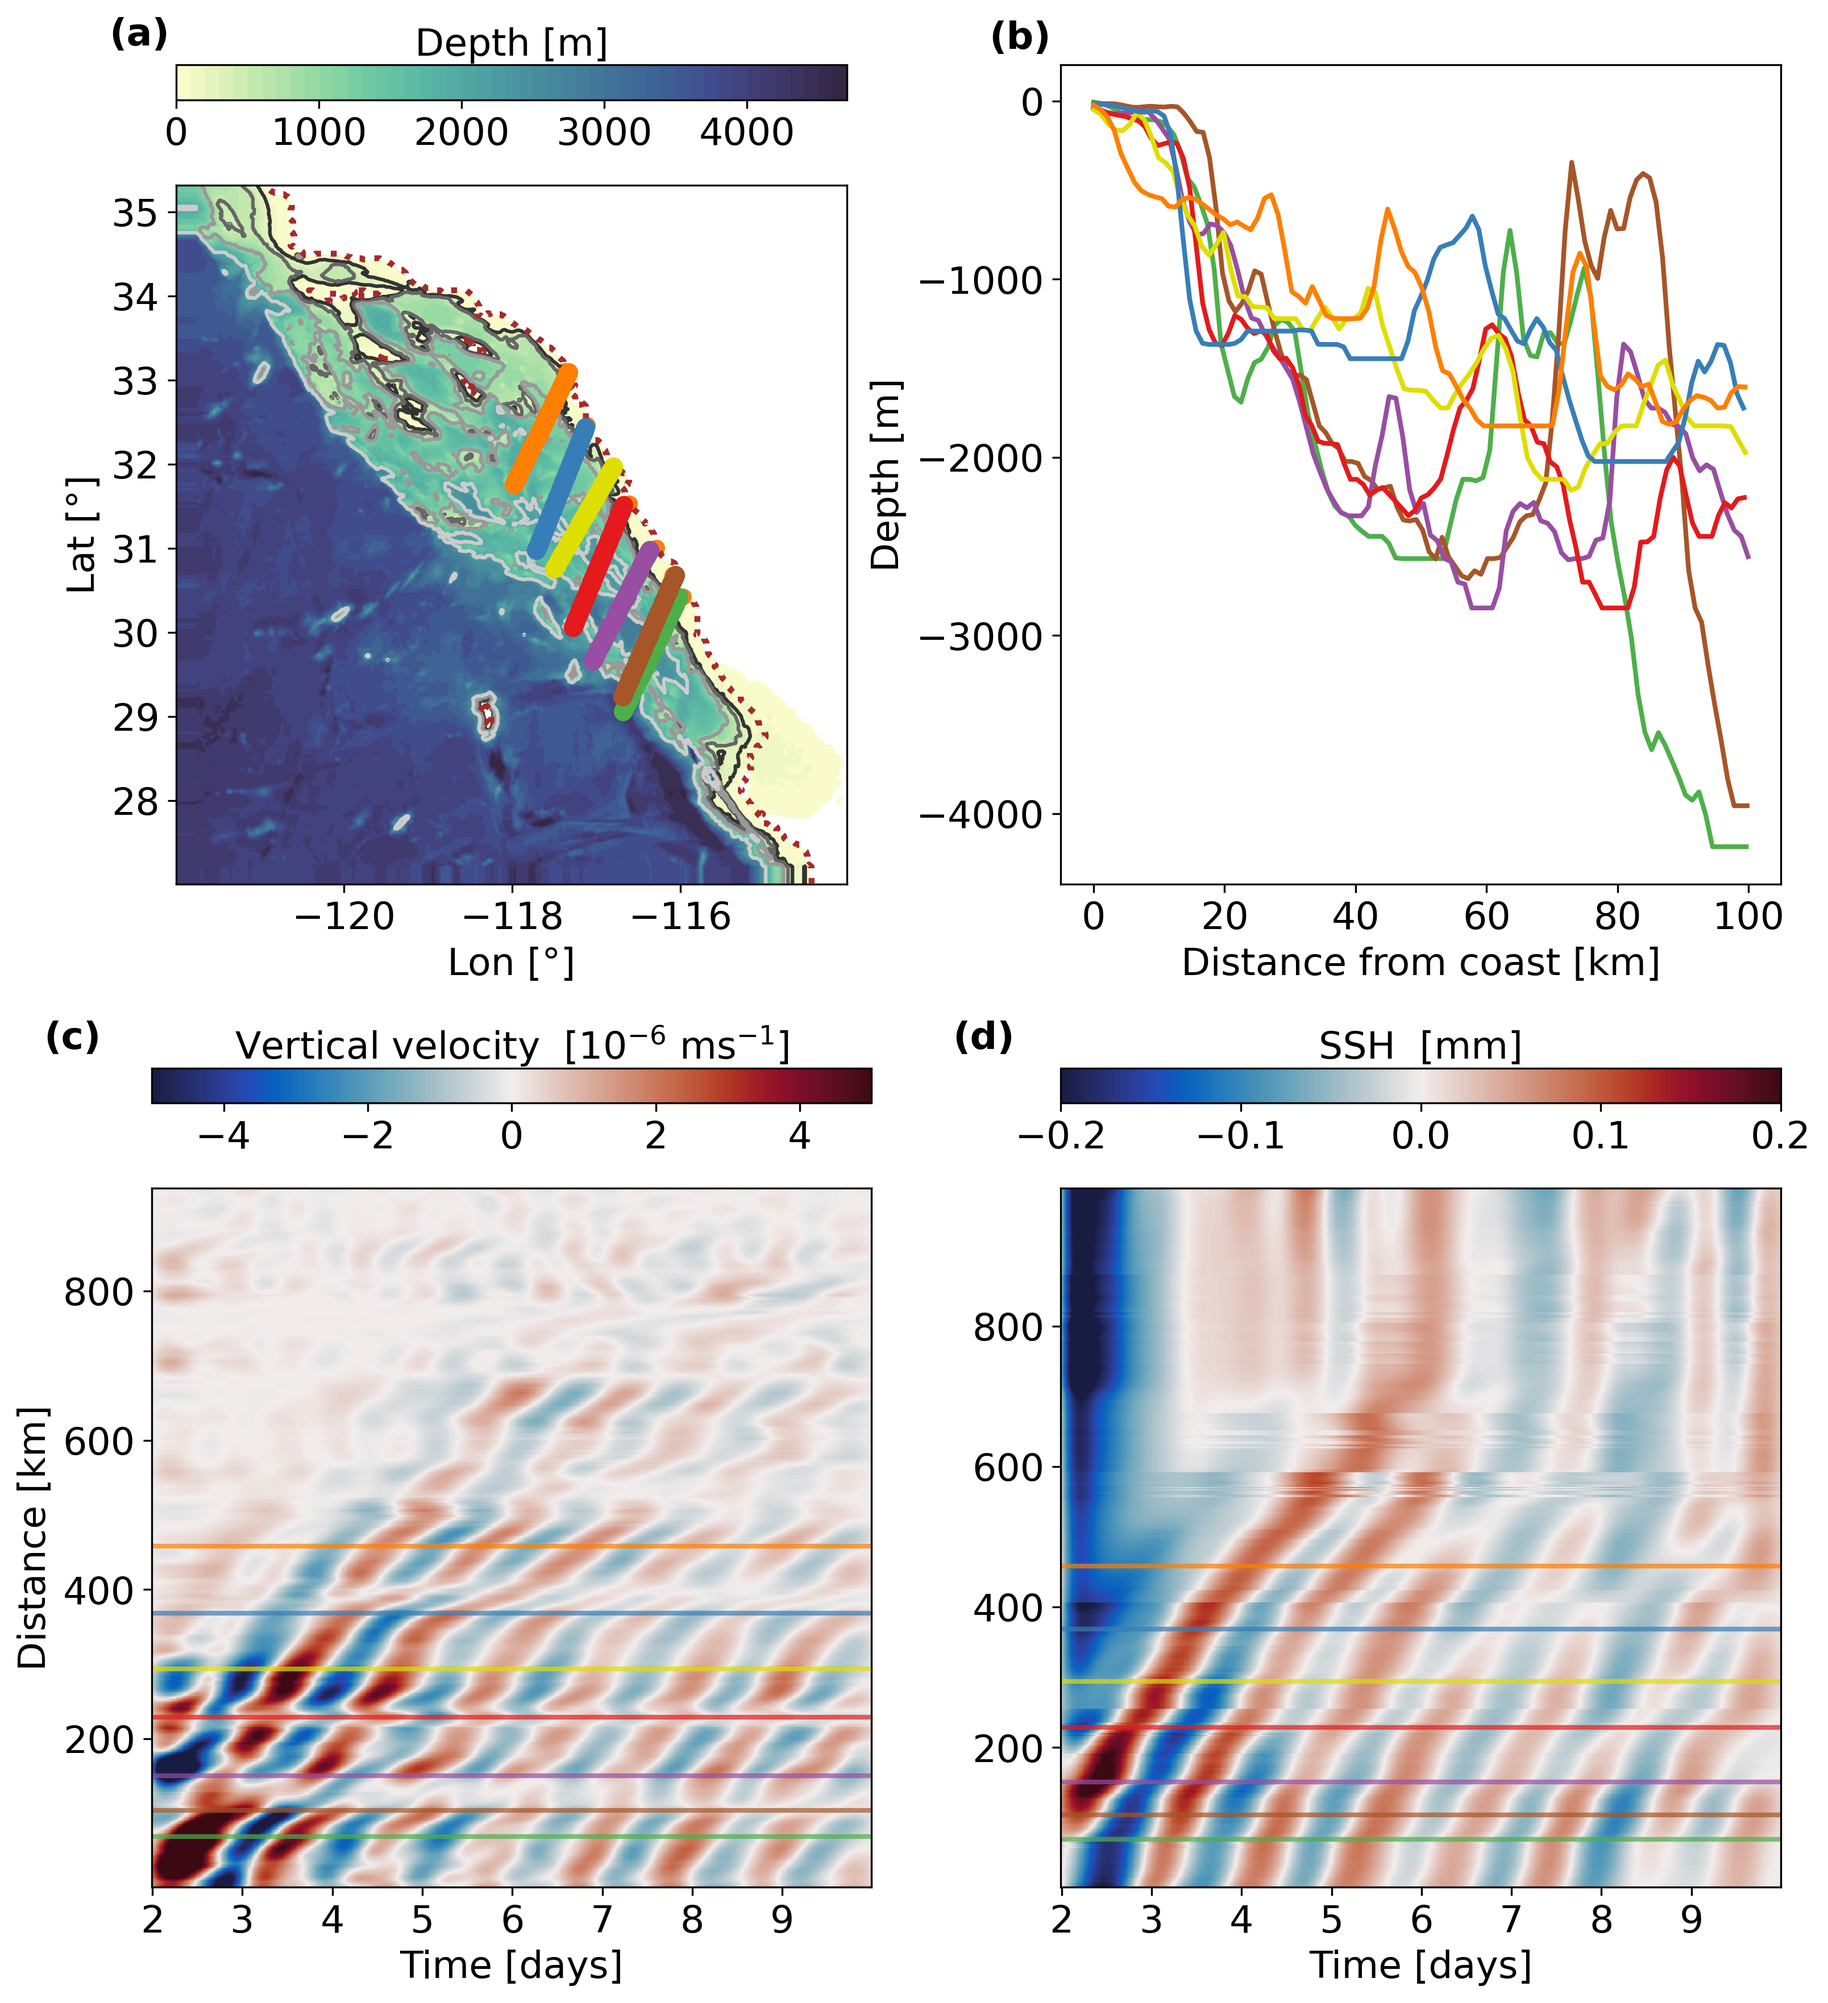
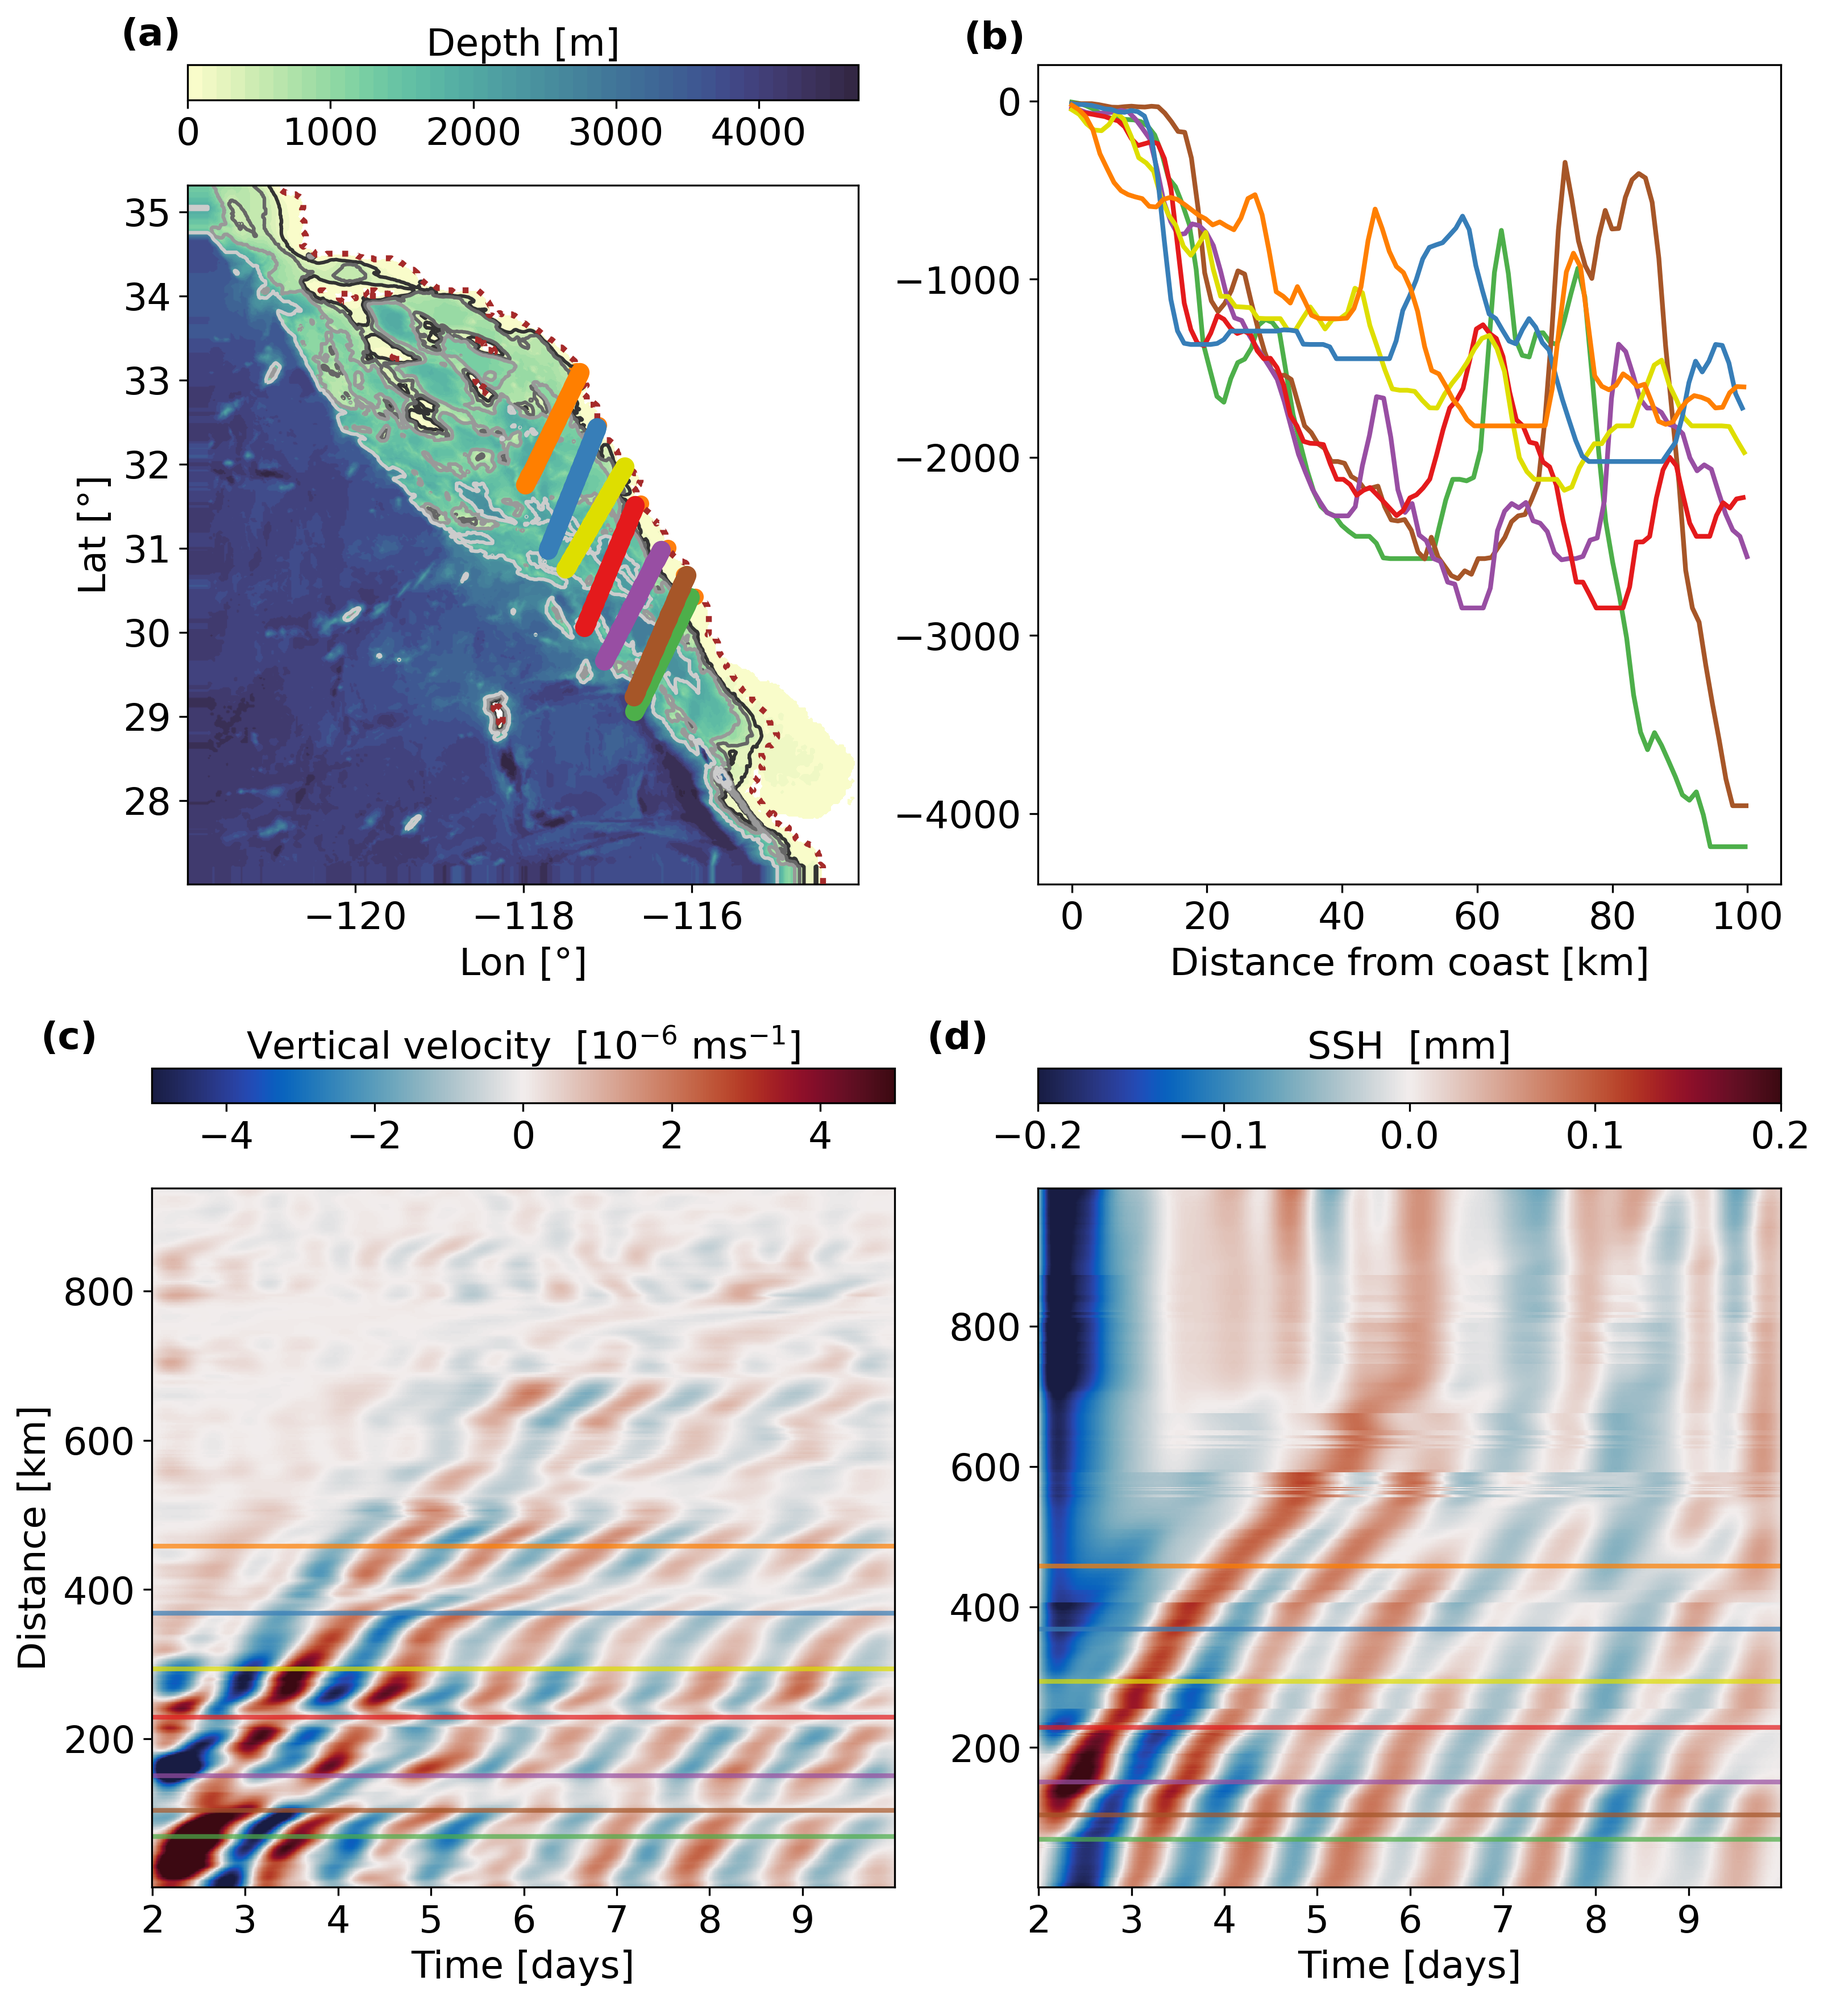
again

diff --git a/Scripts/ExtractIndicesPerp2coast.py b/Scripts/ExtractIndicesPerp2coast.py
@@ -231,7 +231,7 @@ ax.text(-0.1, 1.2, '(a)', fontweight='bold', color='k',transform=ax.transAxes)
 
 ax1 = fig.add_subplot(gs[0, 1])
 ax1.set_xlabel('Distance from coast [km]')
-ax1.set_ylabel('Depth [m]')
+#ax1.set_ylabel('Depth [m]')
 
 for i in range(len(dep)):
 	if len(hej2ind)>20:
